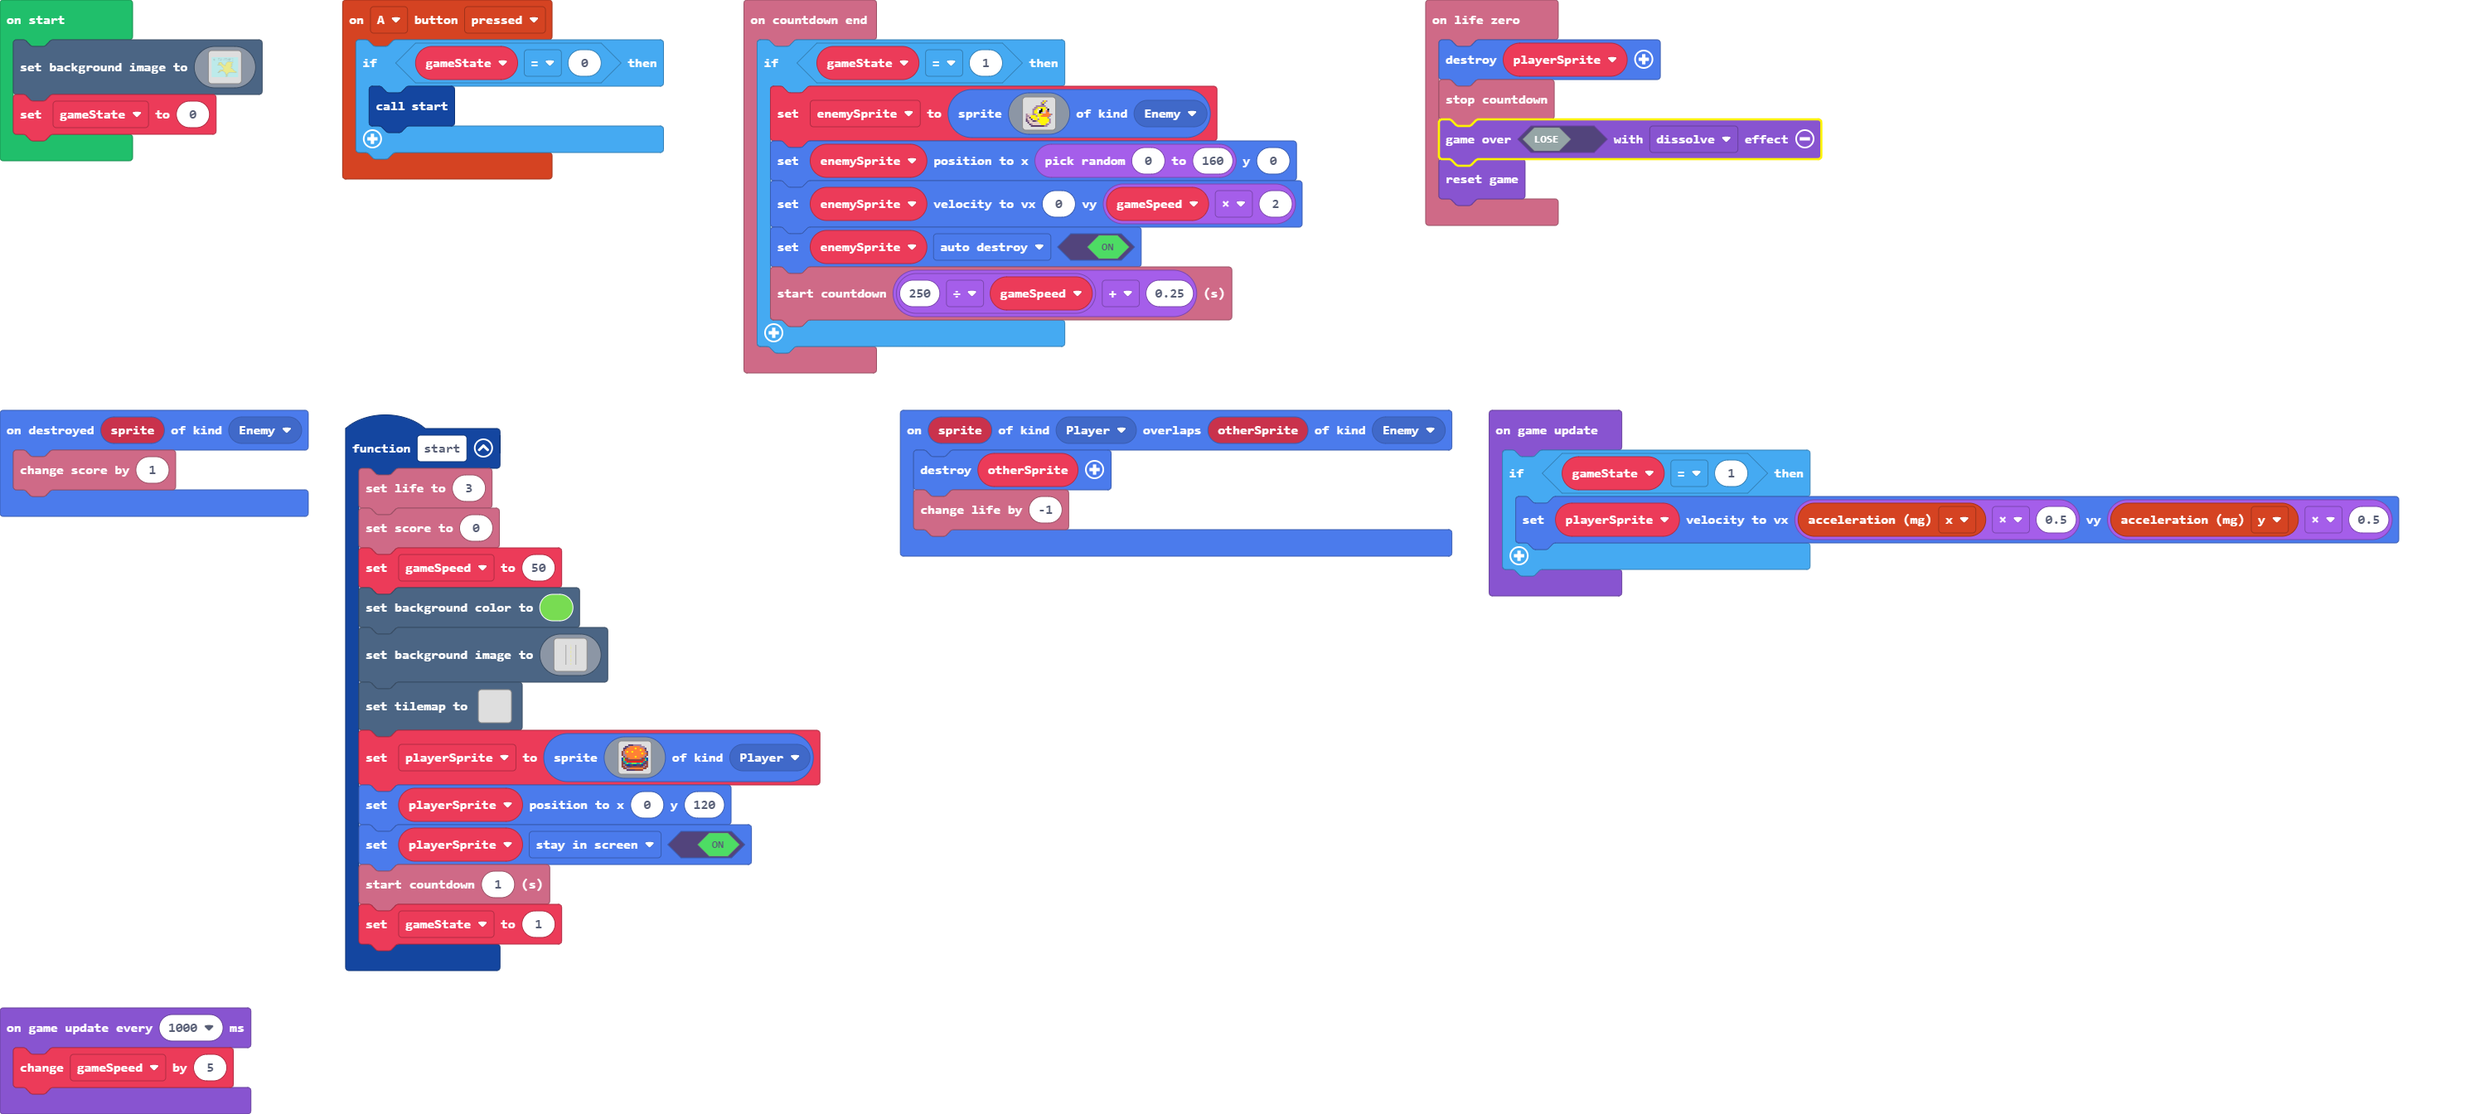
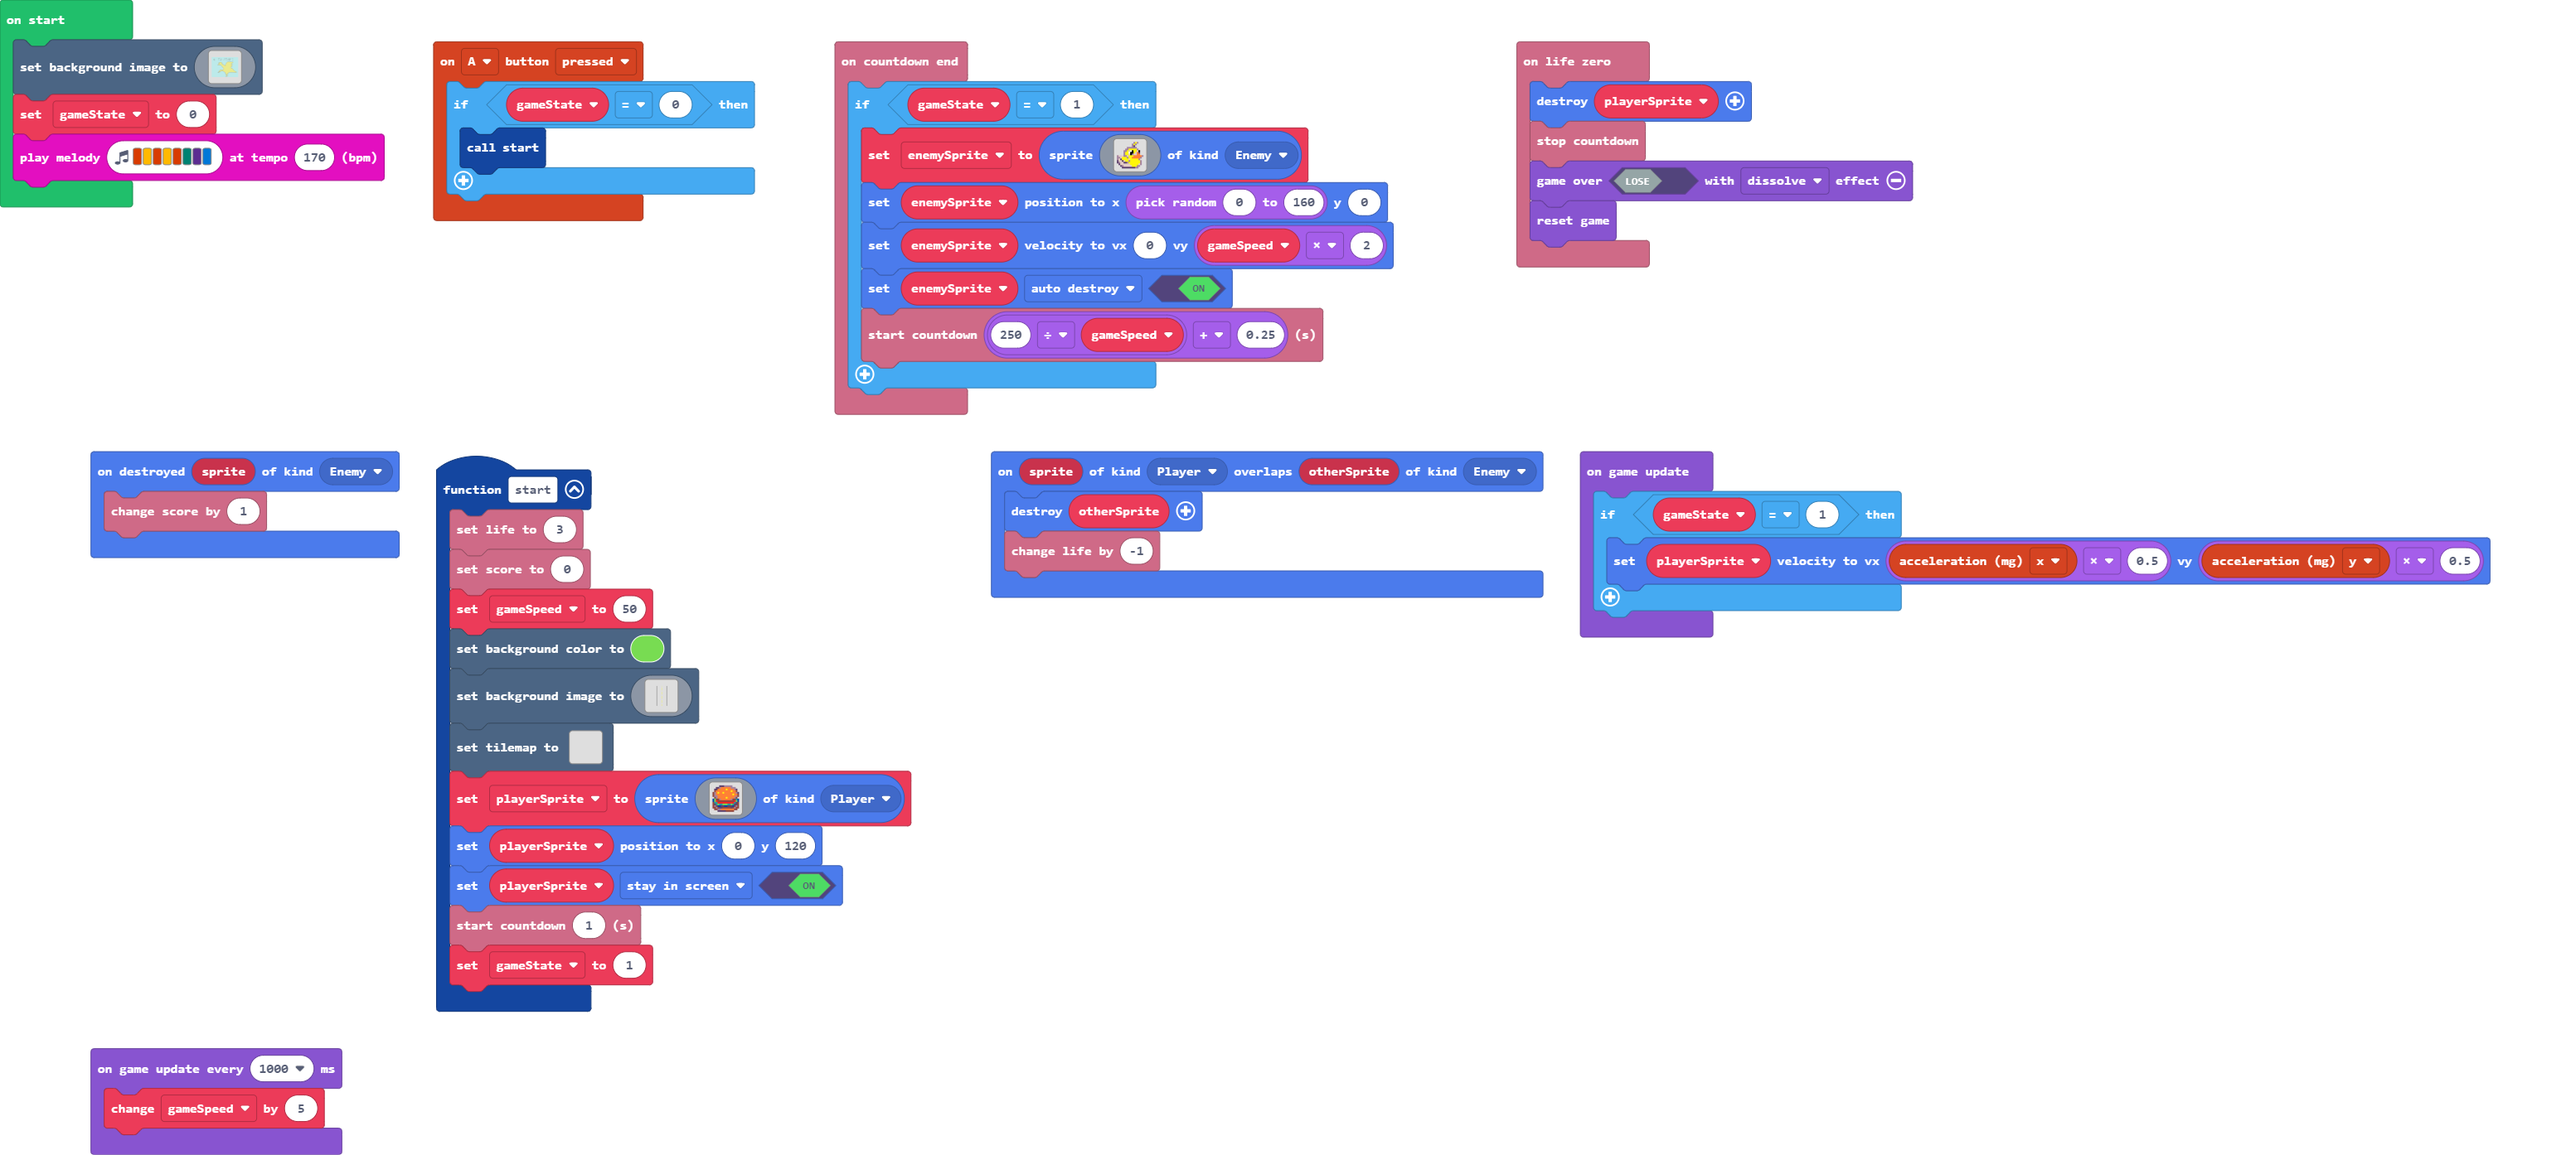
Update main.blocks, main.ts

Changed region(s): [[0.0, 0.0, 0.9927, 0.5625], [0.0, 0.3438, 0.3722, 0.875], [0.0, 0.9062, 0.1551, 1.0]]

diff --git a/main.ts b/main.ts
@@ -337,6 +337,7 @@ scene.setBackgroundImage(img`
     9999999999999999999999999999999999999999999999999999999999999999999999999999999999999999999999999999999999999999999999999999999999999999999999999999999999999999
     `)
 gameState = 0
+music.playMelody("B A B A B F D E ", 170)
 game.onUpdate(function () {
     if (gameState == 1) {
         playerSprite.setVelocity(controller.acceleration(ControllerDimension.X) * 0.5, controller.acceleration(ControllerDimension.Y) * 0.5)
